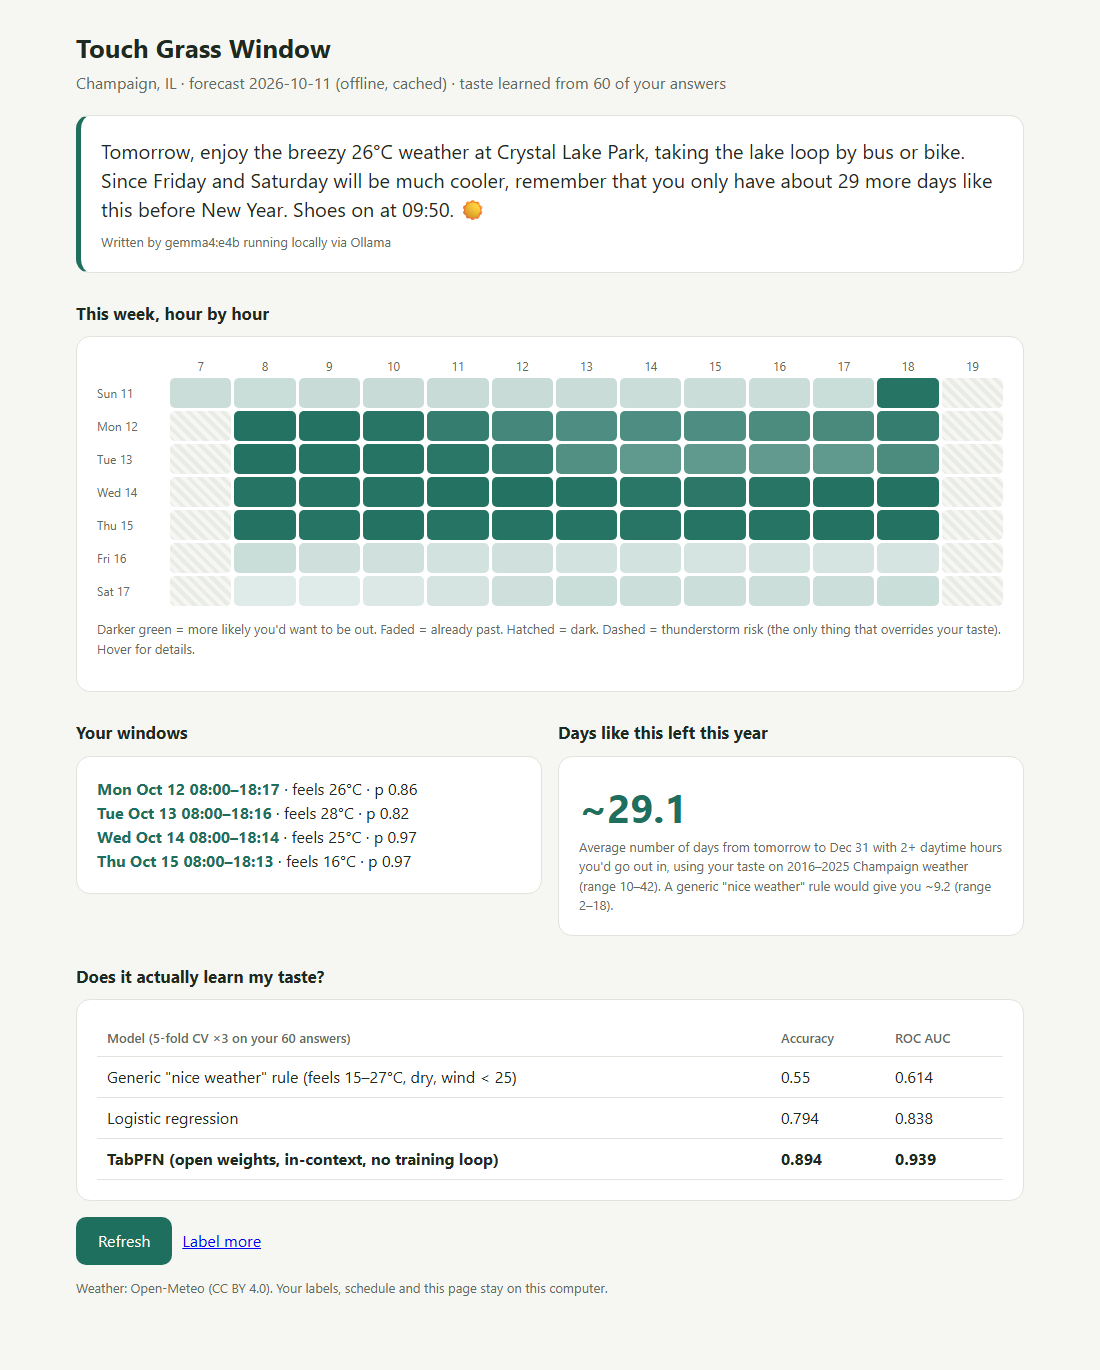
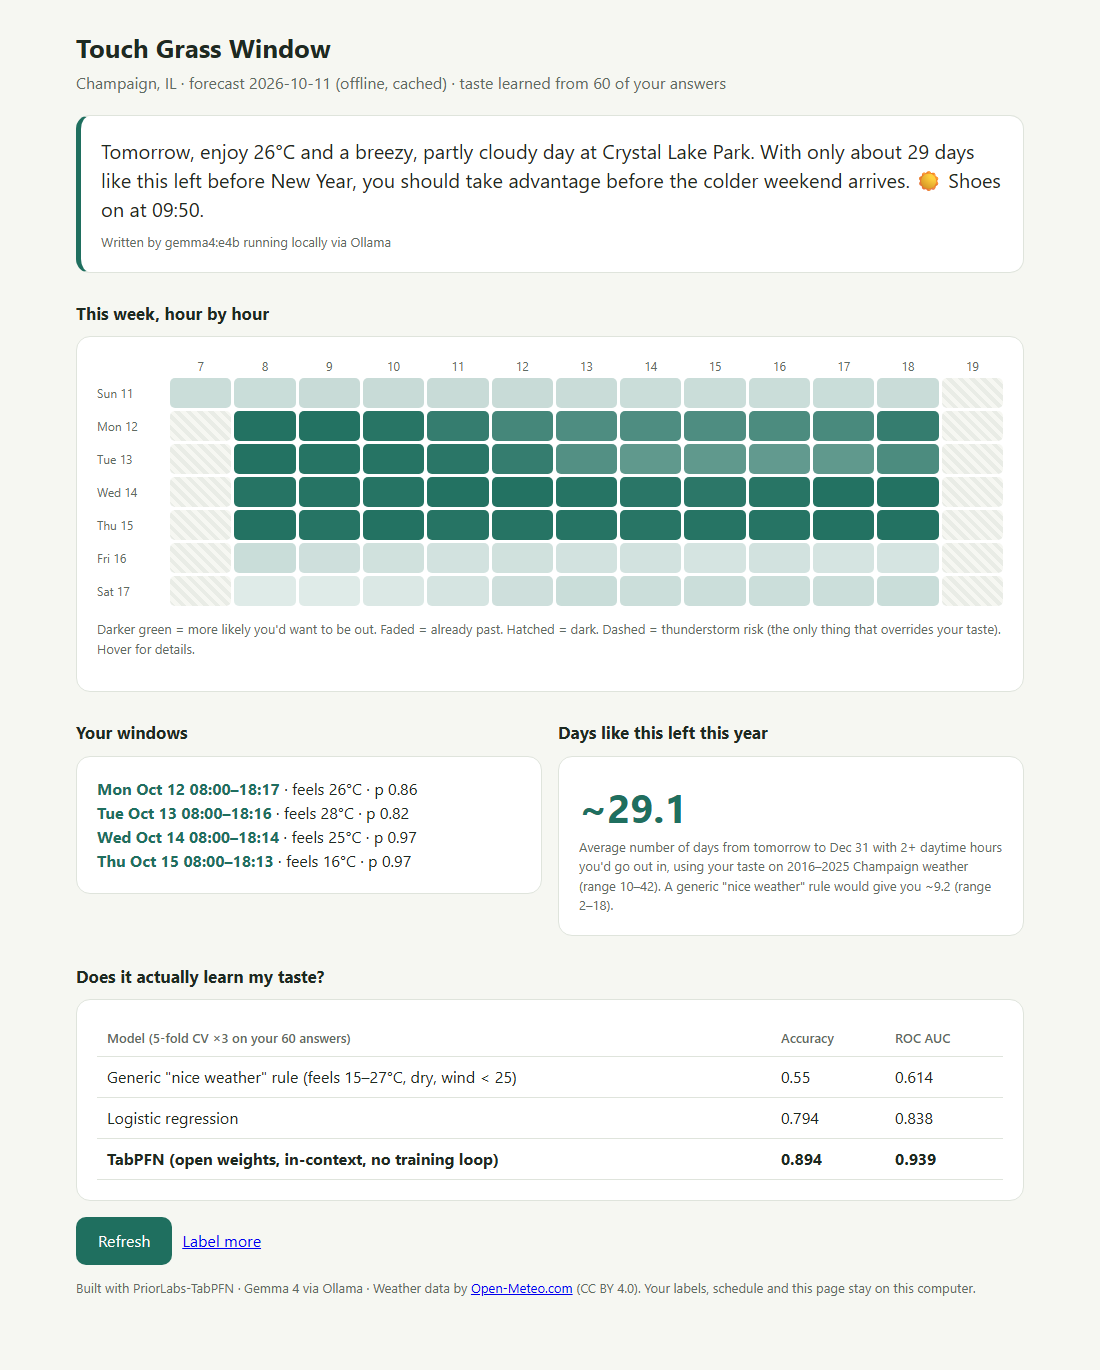
Review fixes: TabPFN attribution (Built with PriorLabs-TabPFN), Gemma 4 is Apache 2.0, Open-Meteo link; README matches storm-only veto; spots example uses min_hours (copying it crashed) + test; no 'laptop' claims

diff --git a/tests/test_guards.py b/tests/test_guards.py
@@ -44,3 +44,16 @@ def test_gemma_output_with_invented_numbers_is_rejected():
     assert nudge.grounded("Go tomorrow at 10:00, it feels like 26°C. About 29 days left. Shoes on at 09:50.", b)
     assert not nudge.grounded("It lasts 40 days. Shoes on at 09:50.", b)  # 40 is not a fact
     assert not nudge.grounded("Go tomorrow, 26°C. Shoes on soon.", b)  # missing the time
+
+
+def test_example_config_files_load():
+    """Copying the example files as the README says must not crash (spots once used a key pick_spot didn't know)."""
+    import json
+    import pathlib
+    import shutil
+
+    repo = pathlib.Path(__file__).resolve().parent.parent
+    for name in ("spots", "free_hours"):
+        shutil.copy(repo / "data" / f"{name}.example.json", taste.DATA / f"{name}.json")
+    assert nudge.pick_spot({"date": "2026-10-12", "hours": 10.3})["name"]
+    assert all(isinstance(v, list) for v in json.loads((taste.DATA / "free_hours.json").read_text()).values())

diff --git a/app.py b/app.py
@@ -194,7 +194,7 @@ A generic "nice weather" rule would give you ~{{left.generic.average}} (range {{
 <tr><td>Logistic regression</td><td>{{ev.logistic_regression.acc}}</td><td>{{ev.logistic_regression.auc}}</td></tr>
 <tr><td><b>TabPFN (open weights, in-context, no training loop)</b></td><td><b>{{ev.tabpfn.acc}}</b></td><td><b>{{ev.tabpfn.auc}}</b></td></tr></table></div>
 <form method=post action=/refresh style="margin-top:16px;display:flex;gap:10px"><button class=yes style="background:var(--go);color:#fff">Refresh</button><a href=/label style="align-self:center">Label more</a></form>
-<p class=mute>Weather: Open-Meteo (CC BY 4.0). Your labels, schedule and this page stay on this computer.</p>
+<p class=mute>Built with PriorLabs-TabPFN · Gemma 4 via Ollama · Weather data by <a href="https://open-meteo.com">Open-Meteo.com</a> (CC BY 4.0). Your labels, schedule and this page stay on this computer.</p>
 </main></body></html>"""
 
 if __name__ == "__main__":

diff --git a/tgw/nudge.py b/tgw/nudge.py
@@ -1,7 +1,7 @@
-"""Gemma, running locally through Ollama, turns the numbers into one short nudge. Nothing leaves the laptop.
+"""Gemma, running locally through Ollama, turns the numbers into one short nudge. Nothing leaves your computer.
 
 All the reasoning (which window, which spot, what changes later in the week) happens in code first; the small model
-only has to phrase a handful of facts. That keeps it honest and keeps it fast on a laptop.
+only has to phrase a handful of facts. That keeps it honest and keeps it fast on ordinary hardware.
 """
 import json
 import re

diff --git a/README.md b/README.md
@@ -1,9 +1,10 @@
 # Touch Grass Window
 
 Teach an open model your own "would I actually go outside?" taste in 60 clicks. It tells you this week's
-outdoor windows, and how many days like today you have left before the year ends. Everything runs on your laptop.
+outdoor windows, and how many days like today you have left before the year ends. Everything runs on your own computer.
 
 Built in one day for the [DEV Hacktoberfest Open-Source AI Challenge, Week 1: Touch Grass](https://dev.to/challenges/hacktoberfest-week1-2026-10-05).
+**Built with PriorLabs-TabPFN.**
 
 ![Demo: label a few past hours, then see this week's windows and the nudge](docs/demo.gif)
 
@@ -18,22 +19,23 @@ Built in one day for the [DEV Hacktoberfest Open-Source AI Challenge, Week 1: To
         │                                                              │
         ├──► applied to 2016–2025 history ──► "days like this left this year"
         │                                                              │
- 7-day forecast (Open-Meteo) ──────────────────► hourly p(go) ──► windows (daylight, free, low rain risk)
+ 7-day forecast (Open-Meteo) ──────────────────► hourly p(go) ──► windows (daylight, free, no thunderstorm)
                                                                        │
                                      Gemma 4 E4B via Ollama writes one nudge from those facts only
 ```
 
 - **Your taste, not a weather app's.** A generic "nice weather" rule says 15–27 °C, dry, light wind. Real people
-  disagree: some will walk in 5 °C sun but not 20 °C drizzle. TabPFN is a tabular foundation model, so it learns
+  disagree: I'll walk in 12 °C drizzle but not in 5 °C sunshine. TabPFN is a tabular foundation model, so it learns
   from about 60 labelled rows with no training loop.
 - **Windows, not forecasts.** Hourly probabilities are filtered to daylight, your free hours
-  (`data/free_hours.json`) and rain probability under 60 %, then grouped into runs.
-- **Rarity.** The same model is run over ten Octobers-to-Decembers of real history to count, per year, the days with
-  2+ hours you'd have gone out in. "About N more days like this" is a typical-year average with its range.
+  (`data/free_hours.json`) and storm-free hours, then grouped into runs and capped at sunset.
 - **Rain is your call.** The only hard veto is a thunderstorm forecast (lightning). Everything else is your taste.
+- **Rarity.** The same model is run over ten Octobers-to-Decembers of real history (daylight hours 9:00–18:00) to count,
+  per year, the days with 2+ hours you'd have gone out in. "About N more days like this" is a typical-year average
+  with its range.
 - **A nudge, not a dashboard.** Code picks the window, the spot and what changes later in the week; Gemma 4 runs locally
-  and only phrases those facts. Every number it writes is checked against the facts, with retries, then a plain
-  template as fallback.
+  and only phrases those facts. Every number it writes in digits is checked against the facts; on a miss it retries,
+  and after three misses it falls back to a plain template.
 
 ## Run it
 
@@ -49,7 +51,8 @@ python -m venv .venv
 ```
 
 First run downloads the weather history (~4 MB) and the TabPFN v2 weights from Hugging Face. After that, `--offline`
-works with no connection: TabPFN, Gemma and your labels are all local.
+works with no connection: TabPFN, Gemma and your labels are all local. TabPFN runs on CPU (on my desktop it scores
+2,000 hours in under 2 seconds).
 
 Optional config: copy `data/free_hours.example.json` to `data/free_hours.json` (your class schedule),
 `data/spots.example.json` to `data/spots.json` (your places). Another city: change `LAT`, `LON`, `TZ` in
@@ -66,14 +69,16 @@ The app recomputes this table on your labels (`data/eval.json`).
 | Logistic regression | 0.79 | 0.84 |
 | **TabPFN v2** (open weights, in-context, no training loop) | **0.89** | **0.94** |
 
-60 labels (35 yes). The generic rule disagreed with me on 27 of 60 hours, and every time it was the rule saying no
-while I said yes: cold stops me, rain doesn't. With my taste, a typical year has about **29** more days like today
-after Oct 11 (range 10–42 over 2016–2025); the generic rule would count about **9** (range 2–18).
+60 labels (35 yes; always saying yes would score 0.58 accuracy). The generic rule disagreed with me on 27 of 60 hours,
+and every time it was the rule saying no while I said yes: cold stops me, rain doesn't. With my taste, a typical year
+has about **29** more days like today after Oct 11 (range 10–42 over 2016–2025); the generic rule would count about
+**9** (range 2–18).
 
 ## Tests
 
-`python -m pytest -q` runs the guard tests (no TabPFN or Ollama needed): double-submitted labels count once, windows end
-at sunset, thunderstorms veto, and a nudge with an invented number is rejected.
+`pip install pytest`, then `python -m pytest -q` runs the guard tests (no TabPFN or Ollama needed): double-submitted
+labels count once, windows end at sunset, thunderstorms veto, a nudge with an invented number is rejected, and the
+example config files load.
 
 ## What runs where
 
@@ -86,9 +91,11 @@ at sunset, thunderstorms veto, and a nudge with an invented number is rejected.
 
 ## Credits
 
-- [TabPFN](https://github.com/PriorLabs/TabPFN) v2 by Prior Labs (Prior Labs License)
-- [Gemma 4](https://ai.google.dev/gemma) by Google (Gemma Terms of Use), served by [Ollama](https://ollama.com)
-- Weather data by [Open-Meteo](https://open-meteo.com) (CC BY 4.0)
+- Built with PriorLabs-TabPFN: [TabPFN](https://github.com/PriorLabs/TabPFN) v2 weights by Prior Labs
+  ([Prior Labs License](https://huggingface.co/Prior-Labs/TabPFN-v2-clf/blob/main/LICENSE.txt), Apache 2.0 with
+  attribution); the `tabpfn` package is Apache 2.0
+- [Gemma 4](https://ai.google.dev/gemma) by Google (Apache 2.0), served by [Ollama](https://ollama.com)
+- Weather data by [Open-Meteo.com](https://open-meteo.com) ([CC BY 4.0](https://creativecommons.org/licenses/by/4.0/))
 - Flask, scikit-learn, pandas
 - Code written with help from Claude Code (an AI coding agent)
 
